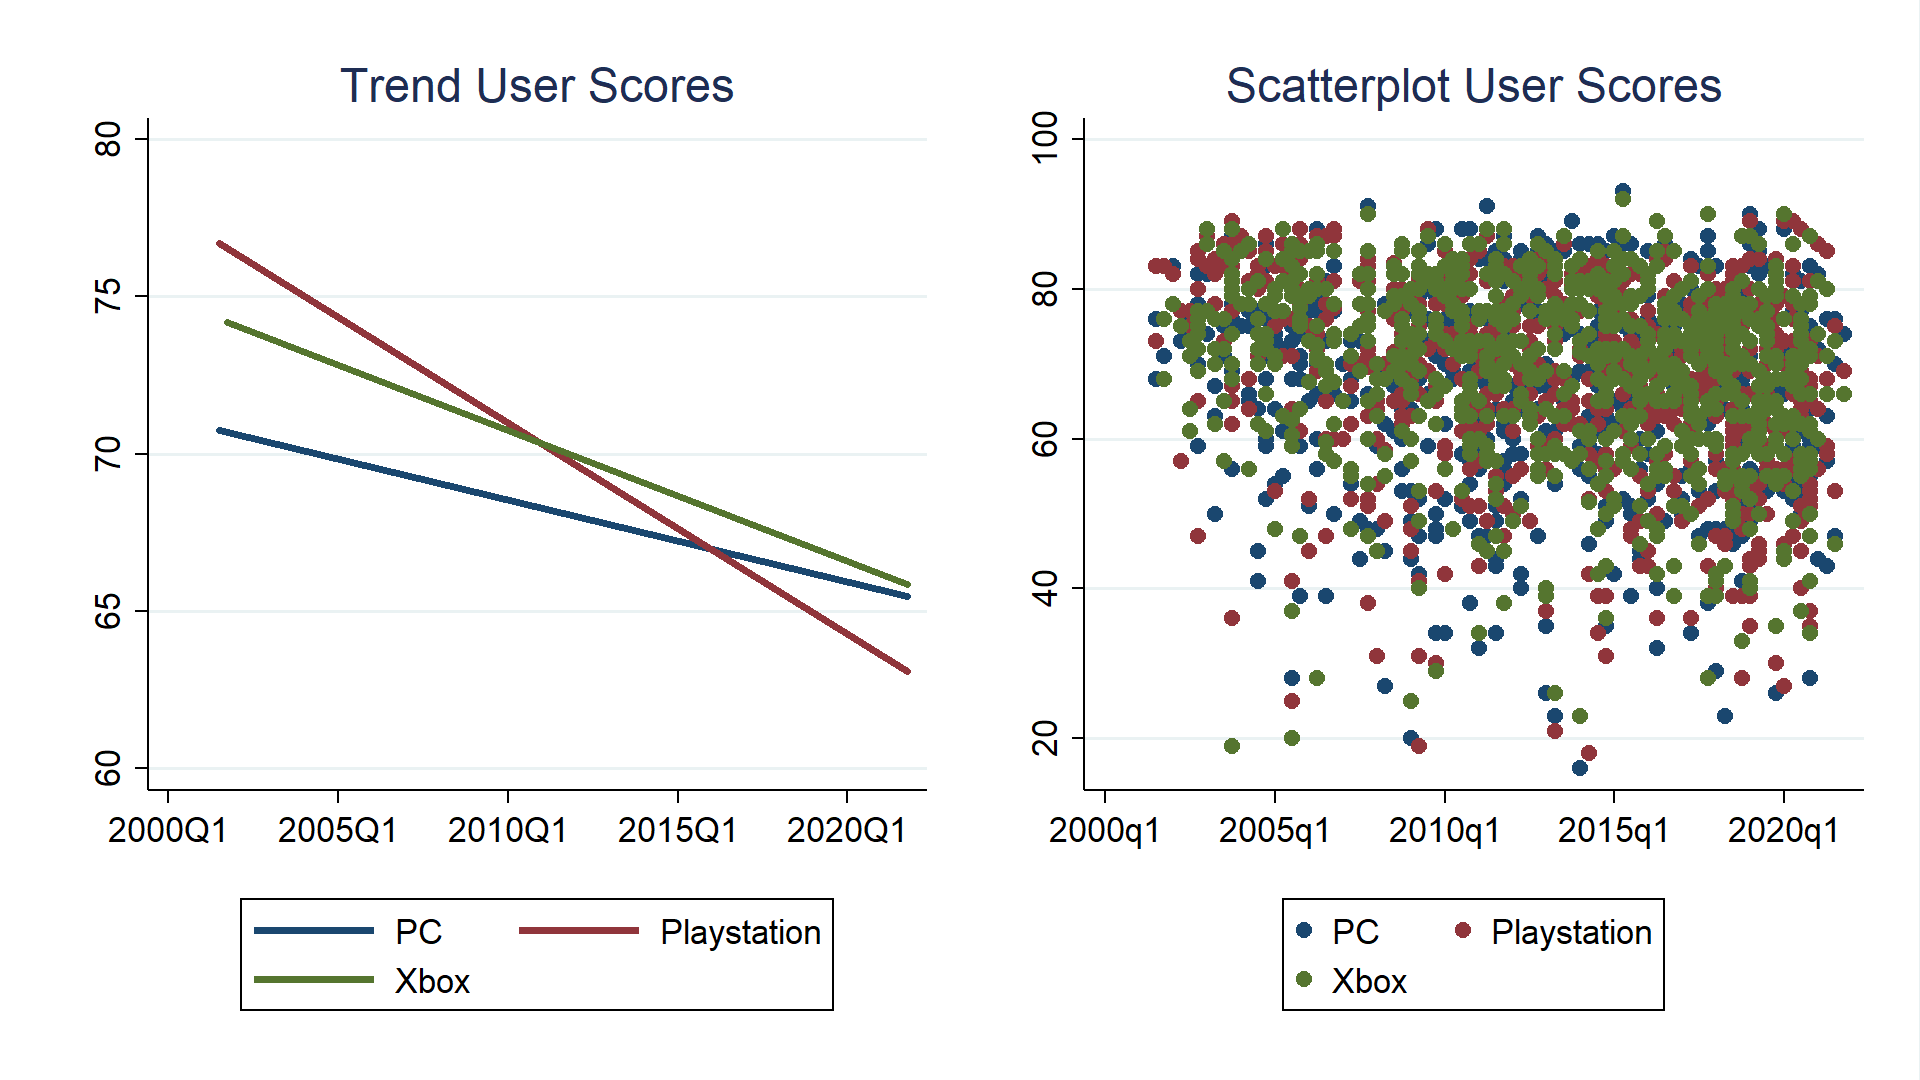
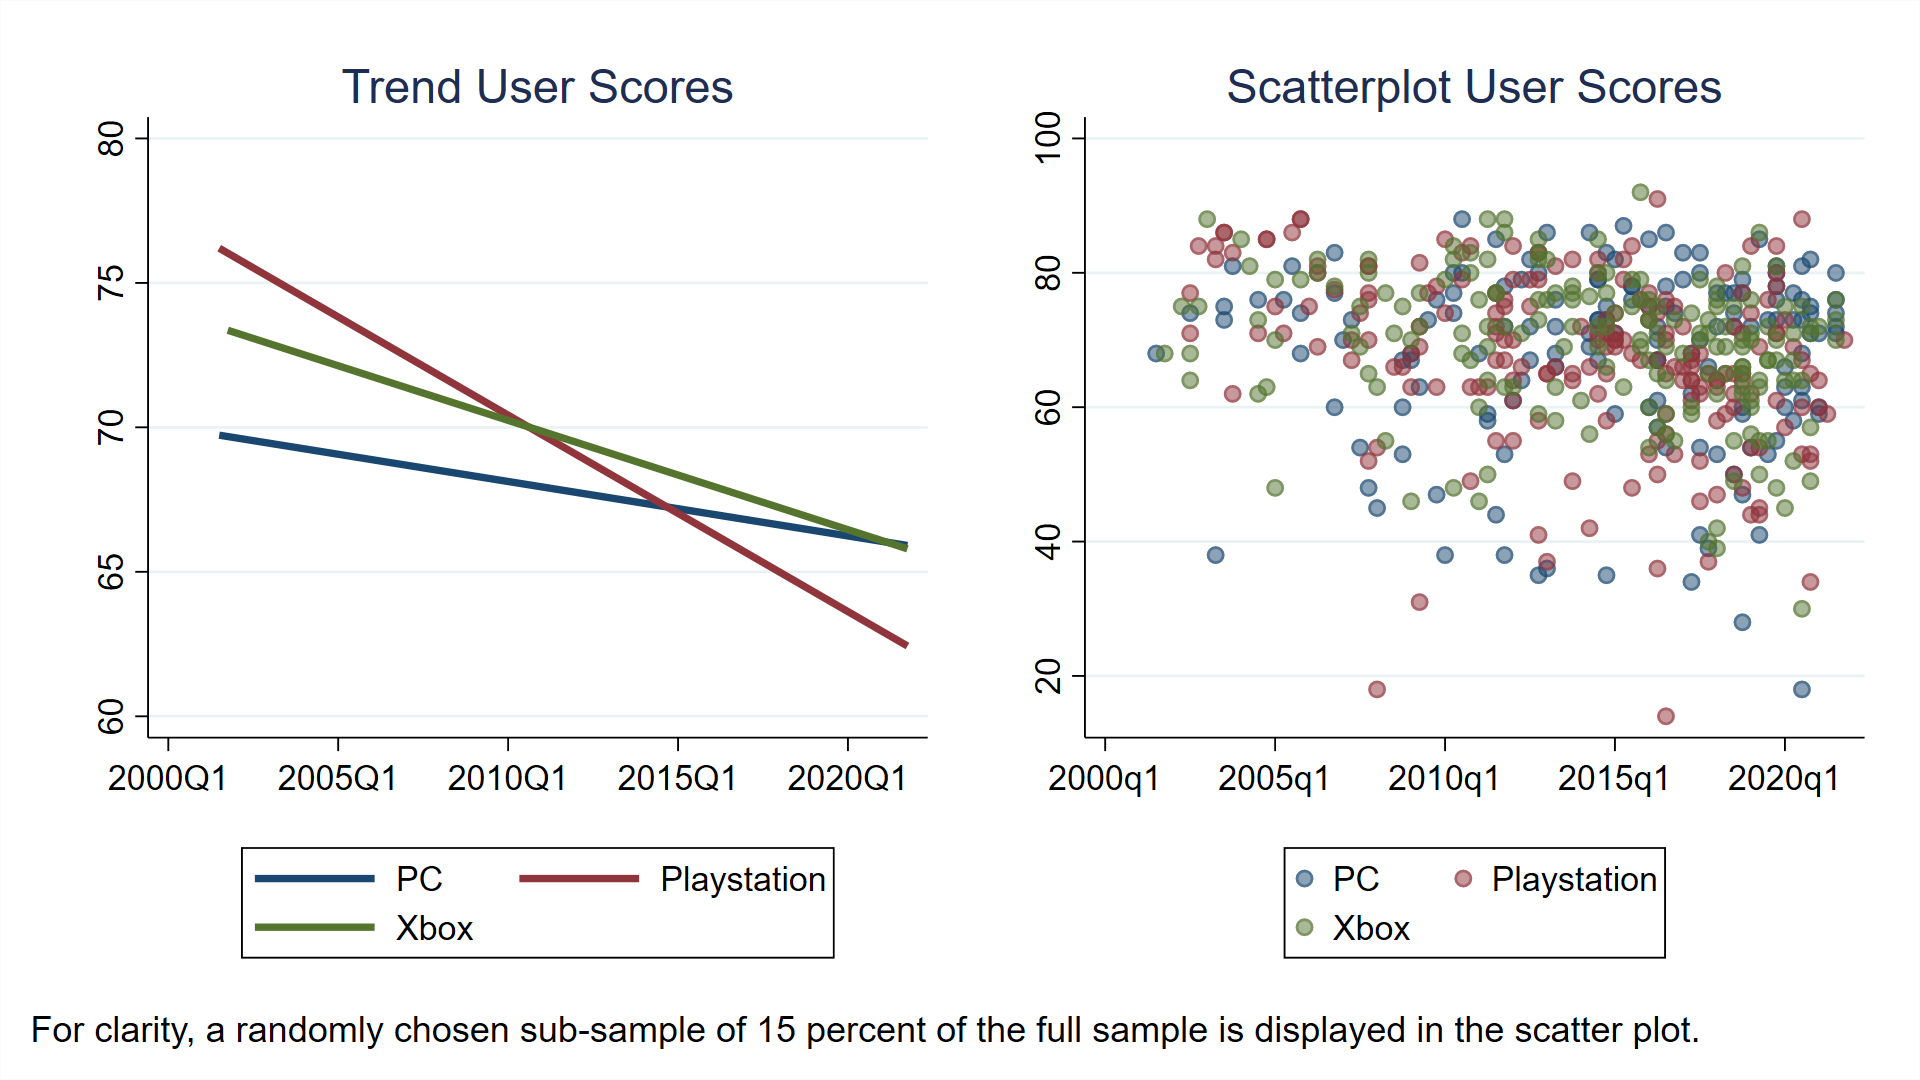
platforms

diff --git a/research/multiport.md b/research/multiport.md
@@ -8,56 +8,55 @@ toc: true
 * TOC filler
 {:toc}
 
+Last updated: April 6, 2022
 
 ### Introduction ###
 Many video games are released on multiple platforms, but the (perceived) quality of a game is often different when compared over different platforms. There are a number of plausible explanations as to why: some platforms might be more difficult to develop for; some platforms might have weaker hardware than their peers; some platforms might not have the most suitable controls as a standard (e.g. having to use a gamepad for a real-time strategy game on console instead of a mouse and keyboard); some platforms might be more vulnerable to revenue-leaking piracy, which renders the platform an afterthought for developers.
 
-Using Metascores and user scores from 2002 through 2021, both of which are allowed to range from 0 to 100, I measure the quality of games ported to PC, Playstation, and Xbox systems and compare them.[^1] I only consider games released on all three platforms within 3 months of each other. The unit of time is therefore collapsed into quarters. If a game is released on two or more systems within the same platform (e.g. released on both Playstation 3 and Playstation 4), I take their mean. To account for review bombing, I omit user scores that differ from their respective Metascores by 30 or more points. After all is said and done, there are 898 games in the sample.
+Using Metascores and user scores from 2002 through 2021, both of which are allowed to range from 0 to 100, I measure the quality of games ported to PC, Playstation, and Xbox systems and compare them.[^1] I only consider games released on all three platforms within 3 months of each other. The unit of time is therefore collapsed into quarters. If a game is released on two or more systems within the same platform (e.g. released on both Playstation 3 and Playstation 4), I take their mean. To account for review bombing and other shenanigans, I omit user scores that differ from their respective Metascores by 30 or more points, which leads to a removal of 66 games from consideration. After all is said and done, there are 3588 games in the sample for professional reviews and 3390 for user reviews.
 
 [^1]: I omit the Nintendo platform because it is a bit of an oddball compared to the other platforms: Nintendo systems typically have weaker hardware than their peers (which sometimes makes them less suitable for a multiplatform release), and a stronger reliance on exclusives and idiosyncratic devices (e.g. a Wiimote).
 
 
 ### Professional Reviews ###
-First note that among the multiplatform games in the sample, there is no statistically significant trend upward or downward in Metacritic score at 95 percent confidence for any platform, although there is a minor upward trend for the PC ports at 90 percent confidence.[^2]
+The figure below illustrates how subtle any platform difference is, on average, over the last 20 years: trendlines are all concentrated within a fairly small band between about 70 to 74; scatterplots are nearly indistinguishable across platforms; and the relative trends sometimes net out over time. That said, MANOVA tests give p-values of around 0.05, suggesting that there is some overall difference between the platforms' ports, as viewed by professional reviewers.[^2]
 
-The figure below illustrates how subtle any platform difference is, on average, over the last 20 years: trendlines are all concentrated within a fairly small band between about 71 to 74; and scatterplots are nearly indistinguishable across platforms. MANOVA tests are consistent with the preceding intuition, being unable to differentiate between the three platforms based purely on Metascore or when also including quarterly or yearly times as predictors.[^3] In other words, if a game is chosen randomly from any of the three platforms, it is statistically unlikely that one would be able to determine which system the game belongs to based purely on its score.
+To that end, there are some trends worth noting. PC ports have an upward trend of about 1 point every 5 years (p = 0.003), and Xbox ports have an upward trend of about 1 point every 7 years (p = 0.029). Playstation ports are remarkably consistent over time, with a near-zero coefficient (and p = 0.986), although that consistency appears to be a liability insofar as Playstation ports appear to be falling behind relative to the improvements made by the other platforms.
 
 <center>
  <b> Metascore for Multiplatform Games </b>
 </center>
 ![Metascore Ports](multiport_metascores.png)
 
-That said, pairwise comparisons may unveil some more specific patterns. Comparing PC to Playstation over the entire 20 year window finds any difference to be statistically insignificant. However, there is a statistically significant trend suggesting that PC ports may be improving in quality relative to Playstation ports over time (by about 0.05 points per quarter), and the gap may have already been closed or even reversed in favor of PC.[^4]
+Pairwise comparisons may unveil some more specific patterns. Comparing PC to Playstation over the entire 20 year window finds any difference to be statistically insignificant (p = 0.5495). That said, there is a trend which suggests that PC ports may be improving in quality relative to Playstation ports over time by about 1 point every 5 years, and the gap may have already been closed or even reversed in favor of PC (p < 0.001).
 
-Comparing PC to Xbox over the entire 20 year window finds the average difference to be a statistically significant 0.89 points in favor of Xbox ports. Again, there is a statistically significant trend suggesting that PC ports may be modestly improving in quality relative to Xbox ports over time (by about 0.02 points per quarter).[^5]
+In comparing PC to Xbox over the entire 20 year window, the average difference is about 1 point in favor of Xbox ports. Here there is likely a trend suggesting that Xbox ports may be improving in quality relative to Playstation ports over time by about a third of a point every 6 years (p = 0.060).
 
-Finally, comparing Playstation to Xbox over the entire 20 year window, one finds the average difference to be a statistically significant 1.05 points in favor of Xbox ports. Here there is a statistically significant trend suggesting that Xbox ports may be improving in quality relative to Playstation ports over time (by about 0.035 points per quarter).[^6]
+Finally, comparing Playstation to Xbox over the entire 20 year window,  the average difference to be about 1 point in favor of Xbox ports (p < 0.001). There is a trend suggesting that Xbox ports may be improving in quality relative to Playstation ports over time by about a 1 point every 7 years (p < 0.001).
 
 <center>
  <b> Pairwise Meta Score Differences </b>
 </center>
 ![Metascore Ports Pairwise](multiport_metascores_pairwise.png)
 
-[^2]: p = 0.055 for PC, p = 0.369 for PS, and p = 0.368 for Xbox
-[^3]: I use the bootstrap MANOVA procedures of [Friedrich, Konietschke, and Pauly (2019)](https://journal.r-project.org/archive/2019/RJ-2019-051/RJ-2019-051.pdf) and find p-values of 0.118, 0.367, 0.366, respectively, with 100000 bootstrap iterations.
-[^4]: p = 0.332 and p < 0.001, respectively
-[^5]: p < 0.001 and p = 0.017, respectively
-[^6]: p < 0.001 and p < 0.001, respectively
+[^2]: I use the bootstrap MANOVA procedures of [Friedrich, Konietschke, and Pauly (2019)](https://journal.r-project.org/archive/2019/RJ-2019-051/RJ-2019-051.pdf).
 
 
 ### User Reviews ###
-All three platforms exhibit a statistically significant downward trend in user score for multiplatform games.[^7] However, the figure below again illustrates how subtle any platform difference is, on average, over the last 20 years: both trendlines and scatterplots are fairly similar visually across platforms (albeit there appears to be more distinction compared to Metascores). MANOVA tests are again consistent the preceding intuition in that they are unable to differentiate between platform based purely on user score or when also including quarterly or yearly times as predictors.[^8]
+The figure below again illustrates how subtle any platform difference is, on average, over the last 20 years: both trendlines and scatterplots are fairly similar visually across platforms. At 95 percent significance, MANOVA tests are consistent the preceding intuition in that they are unable to differentiate between platform based purely on user score. However, p = 0.09 suggests that it is still quite plausible that a difference exists.
+
+ PC ports have a downward trend of about 1 point every 5 years (p = 0.003), Playstation ports have a downward trend of about 1 points every 1.5 years (p < 0.001), and Xbox ports have a downward trend of about 1 point every 3 years (p < 0.001).
 
 <center>
  <b> User Score for Multiplatform Games </b>
 </center>
 ![User Score Ports](multiport_userscores.png)
 
-Pairwise comparison of PC to Playstation over the entire 20 year window finds a statistically significant average difference of 1.19 points in favor of Playstation. However, there is a statistically significant trend suggesting that PC ports may be improving in quality relative to Playstation ports over time (by about 0.09 points per quarter), and the gap may have already closed or reversed in favor of PC.[^9]
+Pairwise comparison of PC to Playstation over the entire 20 year window finds no statistically significant difference (p = 0.1380). However, there is a trend suggesting that PC ports may be improving in quality relative to Playstation ports over time by about 1 point every 2 years (p < 0.001), and the gap may have already closed or reversed in favor of PC.
 
-Comparing PC to Xbox over the entire 20 year window finds the average difference to be a statistically significant 1.69 points in favor of Xbox ports. Again, there is a statistically significant trend suggesting that PC ports may be modestly improving in  quality relative to Xbox ports over time (by about 0.04 points per quarter).[^10]
+Comparing PC to Xbox over the entire 20 year window finds the average difference to be about 1.3 points in favor of Xbox ports (p < 0.001). There is a trend suggesting that PC ports may be modestly improving in quality relative to Xbox ports over time by about 1 point every 5 years (p = 0.001).
 
-Finally, comparing Playstation to Xbox over the entire 20 year window, one finds the difference to be statistically insignificant at 95 percent confidence. Here there is a statistically significant trend suggesting that Xbox ports may be improving in quality relative to Playstation ports over time (by about 0.06 points per quarter), which may have put Xbox ports ahead of Playstation ports, on average.[^11]
+Finally, comparing Playstation to Xbox over the entire 20 year window, one finds a differnce of about 0.8 ponts in favor of Xbox (p < 0.001). There is a trend suggesting that Xbox ports may be improving in quality relative to Playstation ports over time by about 1 point every 3.5 years (p < 0.001), which may have put Xbox ports ahead of Playstation ports, on average.
 
 <center>
  <b> Pairwise User Score Differences </b>
@@ -74,9 +73,11 @@ Finally, comparing Playstation to Xbox over the entire 20 year window, one finds
 ### So Which Platform Gets The Best Ports? ###
 I determine which platform had the best ports in two ways.
 
-First, I bluntly compare the means of each platform over the entire window. This does not account for any upward or downward trends, but at least can let us analyze which platform has fared the best over the last 20 years in an aggregate sense. For professional reviewers, Xbox ports are the statistically-significant highest with an estimated mean of 73.54, compared to the PC mean of 72.65 and the Playstation mean of 72.49 with p-values of p < 0.001 each. PC and Playstation ports are statistically indistinguishable with a p-value of p = 0.166.
+First, I bluntly compare the means of each platform over the entire window. This does not account for any upward or downward trends, but at least can let us analyze which platform has fared the best over the last 20 years in an aggregate sense.
 
-For user reviews, the estimated mean quality of Xbox ports is highest at 69.65, followed by Playstation at 69.16, and PC at 67.95. The mean Xbox score is statistically significantly larger than both the Playstation and PC ports with respective p-values of p = 0.026 and p < 0.001; and the mean Playstation score is statistically significantly larger than the PC port with p < 0.001.
+For professional reviewers, Xbox ports are the best with an estimated mean of 72.9, compared to the PC mean of 71.9 and the Playstation mean of 71.8 with p < 0.001 each. PC and Playstation ports are statistically indistinguishable with a p-value of p = 0.2747.
+
+For user reviews, the estimated mean quality of Xbox ports is highest at 69.1, followed by Playstation at 68.2, and PC at 67.8 with p < 0.001 each. Playstation and PC are statistically indistinguishable with a p-value of 0.1272
 
 Both estimates are shown in the figures below. Keep in mind that overlapping confidence intervals (or lack thereof) do not reflect the results of a difference-in-means test. They do, however, illustrate the magnitude of difference between ports. In particular, the difference in average port quality over the 20 year window appears to be small.
 
@@ -110,36 +111,36 @@ Notice how close most of the estimates are. The t-test results, which determine 
 
 <center><b> Top Mean Port Quality </b></center>
 
-|------|------------------------------|---------------------|
-| Year | Pro Reviewers Best Platform  | Users Best Platform |
-|------|------------------------------|---------------------|
-| 2002 | Playstation, Xbox            | None                |
-| 2003 | Playstation, Xbox            | Playstation         |
-| 2004 | Playstation, Xbox            | Playstation         |
-| 2005 | Playstation, Xbox            | Playstation         |
-| 2006 | None                         | Playstation, Xbox   |
-| 2007 | Xbox                         | None                |
-| 2008 | Playstation, Xbox            | Xbox                |
-| 2009 | None                         | Xbox                |
-| 2010 | Playstation                  | Playstation, Xbox   |
-| 2011 | PC, Xbox                     | Playstation, Xbox   |
-| 2012 | Playstation, Xbox            | None                |
-| 2013 | None                         | None                |
-| 2014 | PC                           | None                |
-| 2015 | Playstation, Xbox            | Xbox                |
-| 2016 | Xbox                         | None                |
-| 2017 | Xbox                         | None                |
-| 2018 | Xbox                         | PC, Xbox            |
-| 2019 | PC, Xbox                     | Xbox                |
-| 2020 | PC, Xbox                     | None                |
-| 2021 | Xbox                         | None                |
-|------|------------------------------|---------------------|
+|------|-----------------------------|---------------------------|
+| Year | Pro Reviewers Best Platform | Users Best Platform       |
+|------|-----------------------------|---------------------------|
+| 2002 | Playstation, Xbox           | None                      |
+| 2003 | **Playstation**, Xbox       | PC, **Playstation**       |
+| 2004 | **Playstation**, Xbox       | **Playstation**           |
+| 2005 | Xbox                        | Playstation               |
+| 2006 | None                        | Playstation, Xbox         |
+| 2007 | **Xbox**                    | Playstation, **Xbox**     |
+| 2008 | **Xbox**                    | **Xbox**                  |
+| 2009 | None                        | Xbox                      |
+| 2010 | Playstation                 | **Playstation**, Xbox     |
+| 2011 | None                        | Playstation, Xbox         |
+| 2012 | **Playstation**, **Xbox**   | **Playstation**, **Xbox** |
+| 2013 | None                        | PC, Xbox                  |
+| 2014 | PC, Playstation             | None                      |
+| 2015 | None                        | PC, Xbox                  |  
+| 2016 | Xbox                        | None                      |
+| 2017 | **Xbox**                    | PC, **Xbox**              |
+| 2018 | **Xbox**                    | PC, **Xbox**              |
+| 2019 | **Xbox**                    | **Xbox**                  |
+| 2020 | **Xbox**                    | PC, **Xbox**              |
+| 2021 | **Xbox**                    | **Xbox**                  |
+|------|-----------------------------|---------------------------|
 
-According to professional reviewers, Xbox had the best ports for 15 years, Playstation for 7 years, and PC for 4 years; no platform had the best ports for 3 years. According to users, Xbox had the best ports for 8 years, Playstation for 6 years, and PC for 1 year; and no platform had the best ports for 9 years. Taking the sum of wins for both professional reviewers and user reviews gives a total of 23 wins to Xbox, 13 wins to Playstation, 5 wins to PC, and 12 ties.
+According to professional reviewers, Xbox had the best ports for 13 years, Playstation 6 years, and PC 1 year; no platform had the best ports for 5 years. According to users, Xbox had the best ports for 14 years, Playstation for 8 years, and PC for 6 years; and no platform had the best ports for 3 years. Taking the sum of wins for both professional reviewers and user reviews gives a total of 27 wins to Xbox, 14 wins to Playstation, 7 wins to PC, and 8 ties.
 
 
 ### Conclusions ###
-There is some evidence of differential perceived quality in ports among platforms. The differences are small in aggregate over the last 20 years, especially after accounting for the trend of each platform. That said, Xbox ports seem to have fared the best with Playstation ports slightly behind and PC ports more so. However, over time it appears that PC ports are improving in quality relative to both Xbox and Playstation ports as judged by both professional critics and users; and Xbox ports are improving in quality relative to Playstation ports as judged by both professional critics and users.
+There is some evidence of differential perceived quality in ports among platforms. The differences are not large in aggregate over the last 20 years, especially after accounting for the trend of each platform. That said, Xbox ports seem to have fared the best with Playstation ports slightly behind and PC ports more so. However, over time it appears that PC ports are improving in quality relative to both Xbox and Playstation ports as judged by both professional critics and users; and Xbox ports are improving in quality relative to Playstation ports as judged by both professional critics and users.
 
 
 <h4 class="no_toc">Footnotes</h4>
